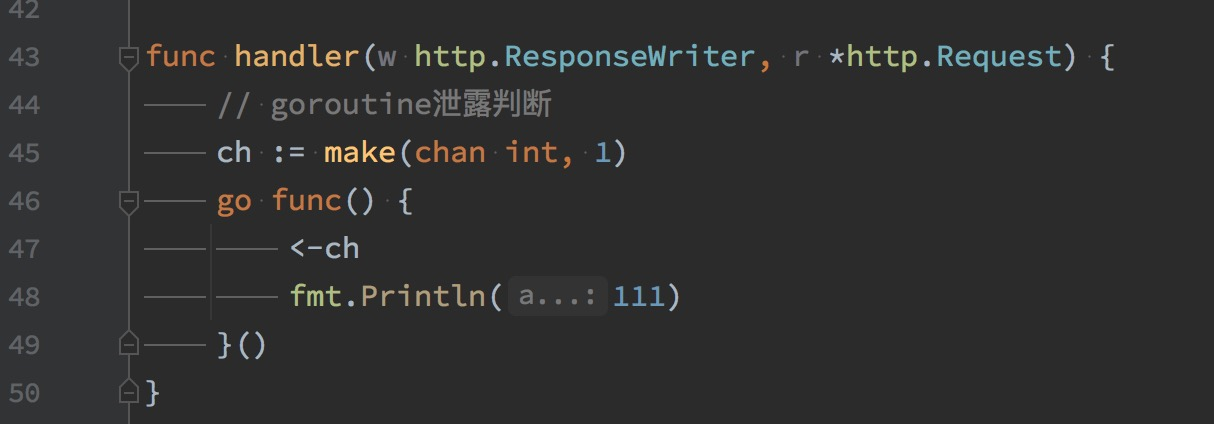
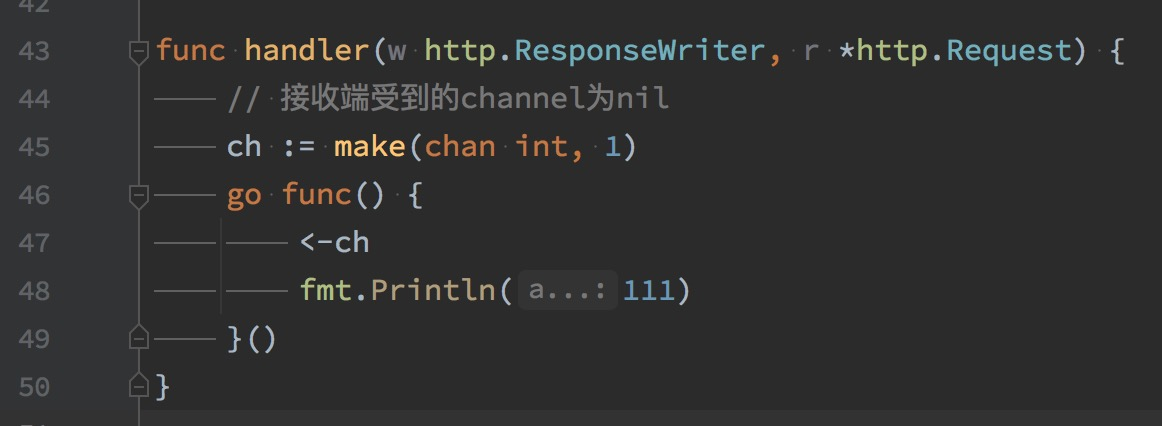
go中goroutine导致的内存泄露的场景

diff --git a/goroutine/内存泄露.md b/goroutine/内存泄露.md
@@ -302,7 +302,7 @@ http://127.0.0.1:6069/debug/pprof/goroutine?debug=1
 
 <img src="/img/pprof_7.jpg"  alt="goroutine" align="center" />
 
-此处阻塞原因，我们在上面也分析了，channel被打满了，但是灭有消费者，导致发送的goroutine被阻塞   
+此处阻塞原因，我们在上面也分析了，channel为nil，导致接收的goroutine被阻塞  
 
 **url请求中设置debug=2**
 
@@ -321,7 +321,9 @@ main.handler.func1(0xc00011a0e0)
 created by main.handler
 	/Users/yj/Go/src/Go-POINT/goroutine/main.go:46 +0x4e
 ```
+chan receive表示接受者被阻塞了，以及可以看到阻塞的行数，和被阻塞协程的创建行数  
 
+当然上面`debug=1`和`debug=2`，可以互补的查看，帮助我们排查  
 
 ### 参考
 【channel关闭的注意事项】https://studygolang.com/articles/16893  
